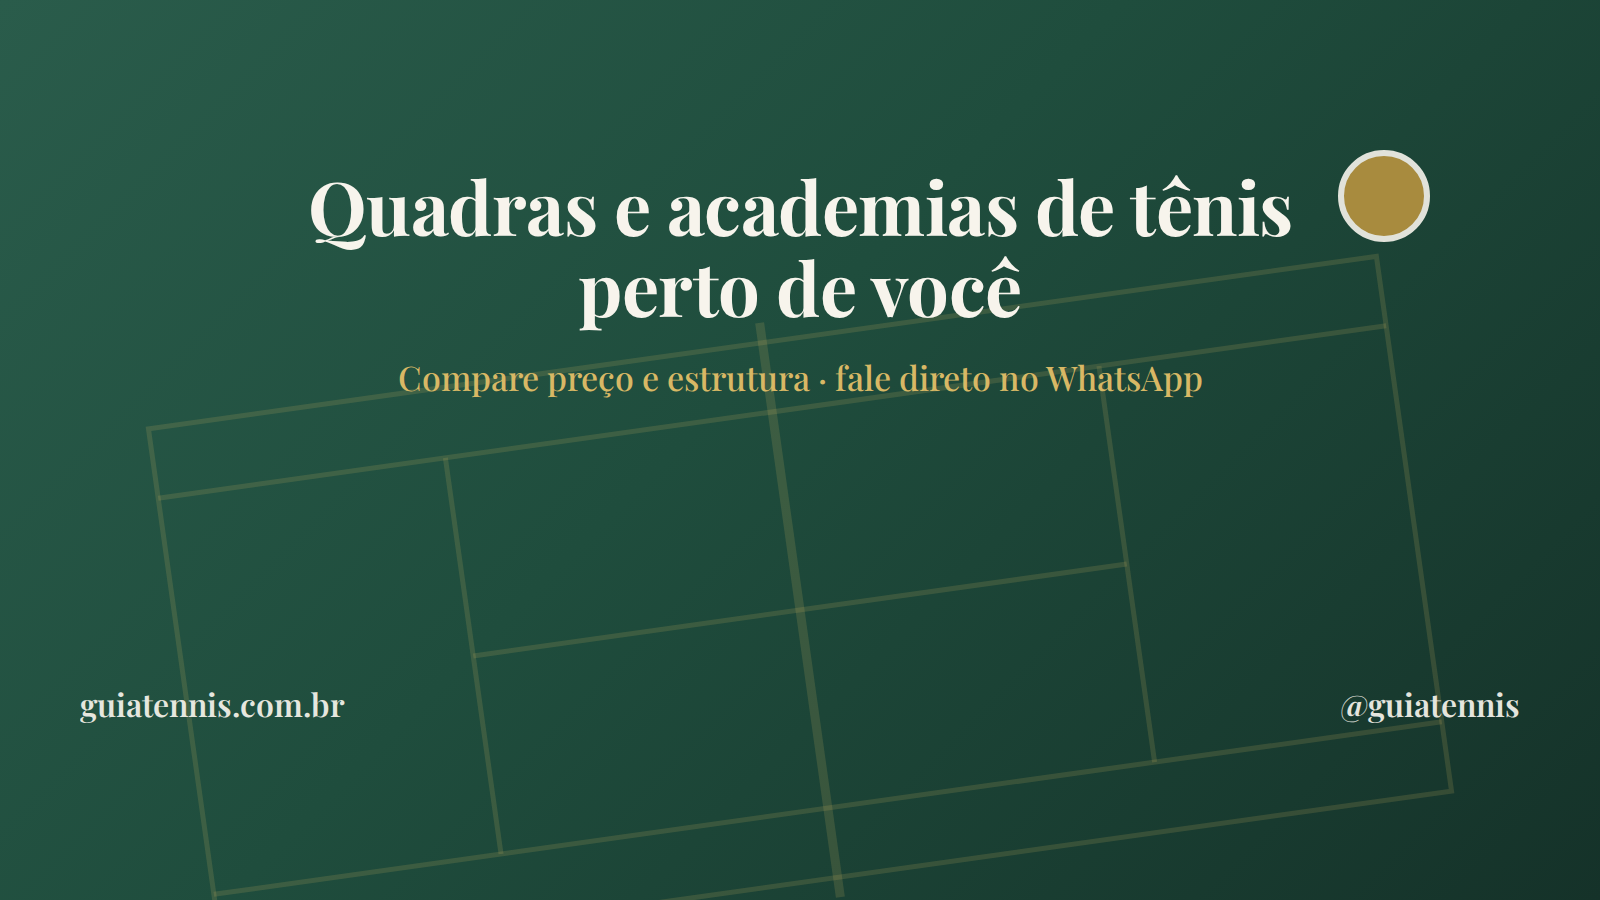
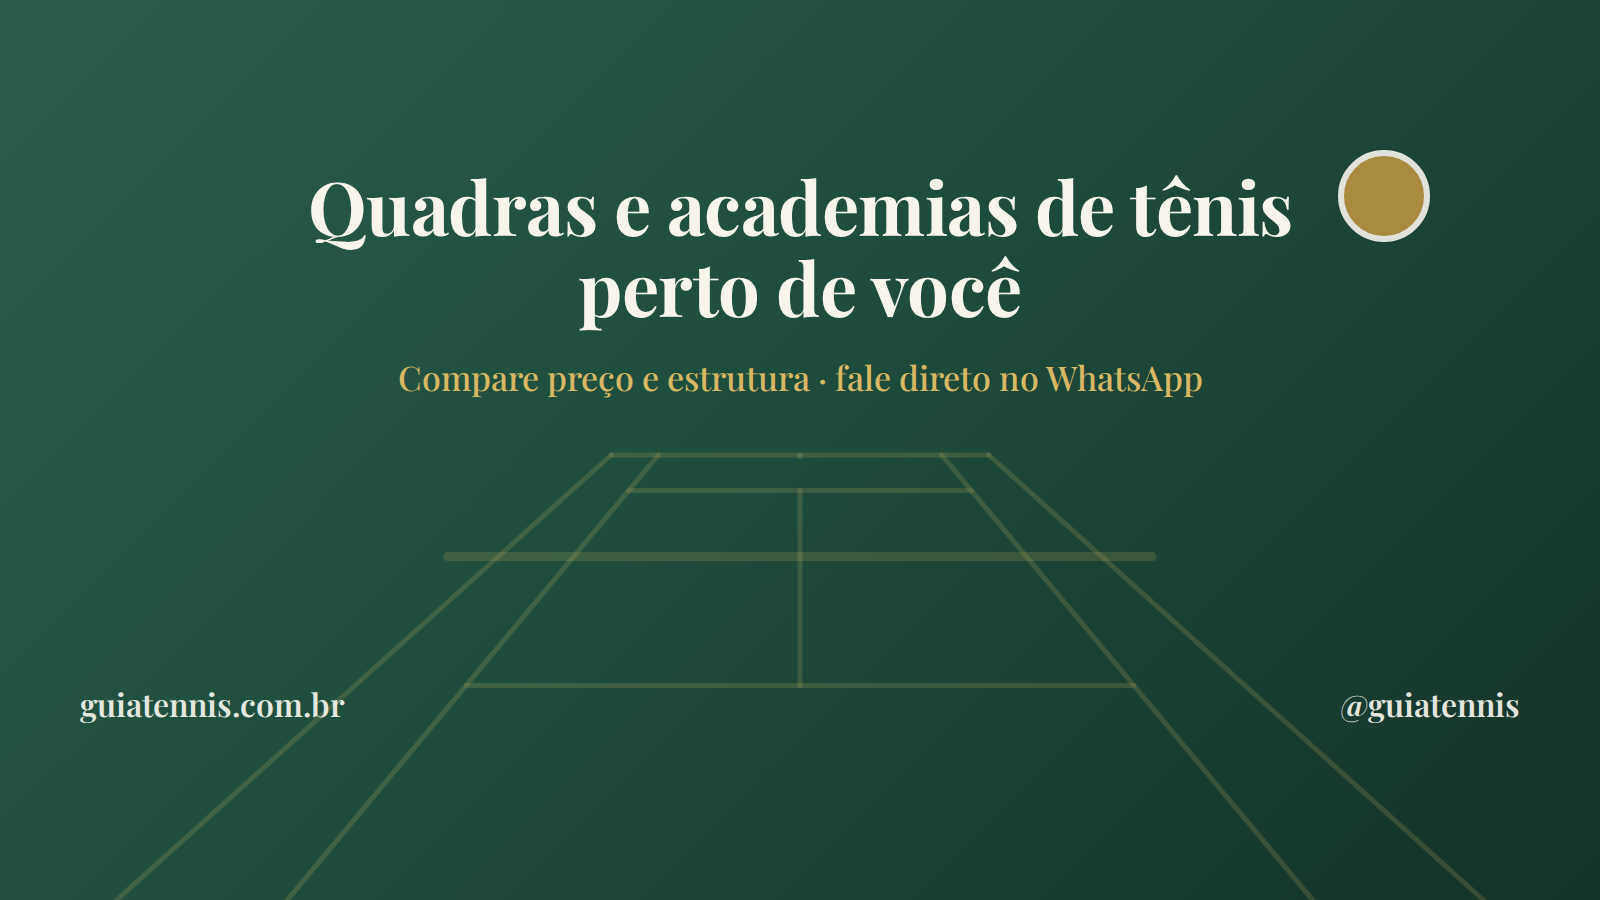
Foto de perfil com a raquete completa e capa com a quadra reta
No perfil, a raquete é redesenhada para tamanho grande: encordoamento
completo e pescoço com os dois braços, nas cores do logo. Na capa, a
quadra fica reta, vista de trás da linha de fundo, em perspectiva com as
medidas oficiais.

Claude-Session: https://claude.ai/code/session_01K8Wm7imqnuvpywyyw6GJ6q

diff --git a/divulgacao/gerar-imagens.js b/divulgacao/gerar-imagens.js
@@ -14,15 +14,27 @@ const RAIZ = path.join(__dirname, '..');
 const html = fs.readFileSync(path.join(RAIZ, 'index.html'), 'utf8');
 const logo = html.match(/const LOGO_SVG = `([\s\S]*?)`;/)[1];
 
-// Só a raquete, maior e centralizada, sem o quadrado de cantos redondos e
-// sem o pescoço da raquete, que em tamanho grande vira duas pontinhas.
-function raquete(tamanho, escala) {
-  return logo
-    .replace(/class="logo-mark" width="46" height="46"/, `width="${tamanho}" height="${tamanho}"`)
-    .replace(/<rect x="0" y="0" width="1080" height="1080" rx="220" fill="url\(#bgGradHeader\)"\/>/, '')
-    .replace(/<path d="M-40 190[^"]*" fill="#F7F4EC"\/>/, '')
-    .replace('<rect x="-40" y="150" width="80" height="290" rx="36"', '<rect x="-40" y="118" width="80" height="322" rx="36"')
-    .replace('<g transform="translate(540,580) rotate(-15)">', `<g transform="translate(598,538) scale(${escala}) rotate(-15)">`);
+// A raquete do logo, redesenhada para tamanho grande: no ícone pequeno o
+// encordoamento tem só três linhas de cada lado e o pescoço vira duas
+// pontinhas; aqui o encordoamento é completo e o pescoço tem os dois braços
+// de uma raquete de verdade. Mesmas cores e mesma bola do logo.
+function raquete(tamanho) {
+  const creme = '#F7F4EC', ouro = '#B8933F';
+  const cordas = [];
+  for (let y = -400; y <= 80; y += 48) cordas.push(`<line x1="-200" y1="${y}" x2="200" y2="${y}"/>`);
+  for (let x = -168; x <= 168; x += 42) cordas.push(`<line x1="${x}" y1="-420" x2="${x}" y2="100"/>`);
+  return `<svg width="${tamanho}" height="${tamanho}" viewBox="0 0 1080 1080">
+  <defs><clipPath id="cabeca"><ellipse cx="0" cy="-160" rx="190" ry="250"/></clipPath></defs>
+  <g transform="translate(600,532) scale(0.8) rotate(-15)">
+    <g clip-path="url(#cabeca)" stroke="${ouro}" stroke-width="7" opacity="0.6">${cordas.join('')}</g>
+    <path d="M-120 72 L-30 220 M120 72 L30 220" stroke="${creme}" stroke-width="34" stroke-linecap="round" fill="none"/>
+    <rect x="-40" y="200" width="80" height="250" rx="36" fill="${creme}"/>
+    <ellipse cx="0" cy="455" rx="44" ry="22" fill="${creme}"/>
+    <ellipse cx="0" cy="-160" rx="212" ry="272" fill="none" stroke="${creme}" stroke-width="48"/>
+    <path d="M-330 -40 Q-260 -10 -220 -90" fill="none" stroke="${ouro}" stroke-width="16" stroke-linecap="round" opacity="0.55"/>
+    <circle cx="0" cy="-160" r="132" fill="${ouro}" stroke="${creme}" stroke-width="10"/>
+  </g>
+</svg>`;
 }
 
 const FONTE = `<link href="https://fonts.googleapis.com/css2?family=Playfair+Display:wght@500;600;700&display=swap" rel="stylesheet">`;
@@ -30,18 +42,29 @@ const FUNDO = 'linear-gradient(135deg, #2A5C4B 0%, #1F4D3D 45%, #153229 100%)';
 
 const perfil = `<!doctype html><html><head><meta charset="utf-8">
 <style>html,body{margin:0}body{width:1080px;height:1080px;background:${FUNDO};display:flex;align-items:center;justify-content:center}</style>
-</head><body>${raquete(1080, 0.86)}</body></html>`;
+</head><body>${raquete(1080)}</body></html>`;
 
-// Quadra de tênis vista de cima, em dourado bem clarinho, atrás de tudo.
-const quadra = `<svg width="1600" height="900" viewBox="0 0 1600 900" style="position:absolute;inset:0">
-  <g transform="translate(800 610) rotate(-8)" fill="none" stroke="#D8B865" stroke-opacity="0.16" stroke-width="5">
-    <rect x="-620" y="-270" width="1240" height="540"/>
-    <line x1="-620" y1="-200" x2="620" y2="-200"/><line x1="-620" y1="200" x2="620" y2="200"/>
-    <line x1="-330" y1="-200" x2="-330" y2="200"/><line x1="330" y1="-200" x2="330" y2="200"/>
-    <line x1="-330" y1="0" x2="330" y2="0"/>
-    <line x1="0" y1="-290" x2="0" y2="290" stroke-width="9"/>
+// Quadra de tênis reta, vista de trás da linha de fundo, em perspectiva:
+// medidas oficiais (23,77 × 10,97 m) projetadas numa câmera atrás da quadra.
+function quadraEmPerspectiva() {
+  const L = 23.77, meiaDupla = 5.485, meiaSimples = 4.115, saque = 6.40, rede = L / 2;
+  const d = 8, perto = 960, longe = 455, cx = 800;
+  const K = (perto - longe) / (1 / d - 1 / (L + d)), H = perto - K / d, S = 1500 * d / (2 * meiaDupla);
+  const P = (X, z) => [cx + X * S / (z + d), H + K / (z + d)].map(v => v.toFixed(1)).join(' ');
+  const linha = (X1, z1, X2, z2, w = 5) => `<path d="M${P(X1, z1)} L${P(X2, z2)}" stroke-width="${w}"/>`;
+  return `<svg width="1600" height="900" viewBox="0 0 1600 900" style="position:absolute;inset:0">
+  <g fill="none" stroke="#D8B865" stroke-opacity="0.18" stroke-linecap="round">
+    ${linha(-meiaDupla, 0, -meiaDupla, L)}${linha(meiaDupla, 0, meiaDupla, L)}
+    ${linha(-meiaSimples, 0, -meiaSimples, L)}${linha(meiaSimples, 0, meiaSimples, L)}
+    ${linha(-meiaDupla, 0, meiaDupla, 0)}${linha(-meiaDupla, L, meiaDupla, L)}
+    ${linha(-meiaSimples, rede - saque, meiaSimples, rede - saque)}${linha(-meiaSimples, rede + saque, meiaSimples, rede + saque)}
+    ${linha(0, rede - saque, 0, rede + saque)}
+    ${linha(0, 0, 0, 0.35)}${linha(0, L, 0, L - 0.35)}
+    ${linha(-6.4, rede, 6.4, rede, 9)}
   </g>
 </svg>`;
+}
+const quadra = quadraEmPerspectiva();
 
 const capa = `<!doctype html><html><head><meta charset="utf-8">${FONTE}
 <style>

diff --git a/GUIATENNIS-CONTEXTO.md b/GUIATENNIS-CONTEXTO.md
@@ -825,7 +825,12 @@ Breno não gosta, responde ele mesmo.
 Imagens em `divulgacao/` (fora do ar), geradas do `LOGO_SVG` por
 `divulgacao/gerar-imagens.js`: `whatsapp-perfil.png` (1080×1080, raquete
 no meio para o corte redondo) e `whatsapp-capa.png` (1600×900; texto em
-cima e nas laterais, porque a foto redonda cobre o meio de baixo). O
+cima e nas laterais, porque a foto redonda cobre o meio de baixo). No
+perfil a raquete é redesenhada para tamanho grande — encordoamento
+completo e pescoço com os dois braços; o logo pequeno tem só três cordas
+de cada lado, e o Breno achou que faltavam traços. Na capa, a quadra é
+reta, vista de trás da linha de fundo, em perspectiva com as medidas
+oficiais (a primeira versão, inclinada, pareceu torta). O
 gerador busca a fonte do Google pelo `curl`, que passa pelo proxy daqui.
 
 Textos do perfil (combinados em 29/09/2026 — para o público e para as
